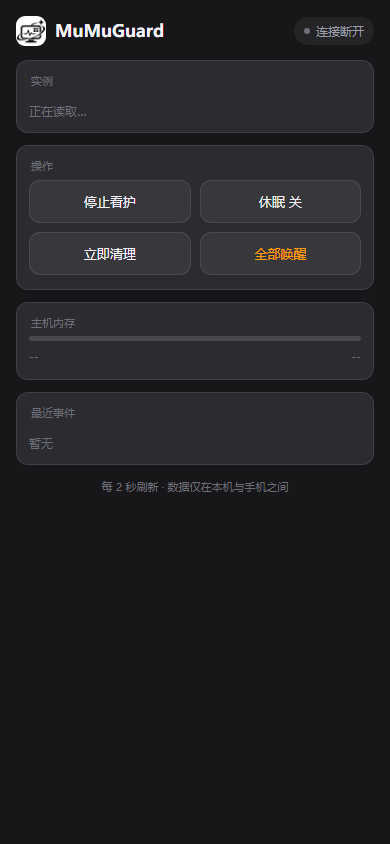
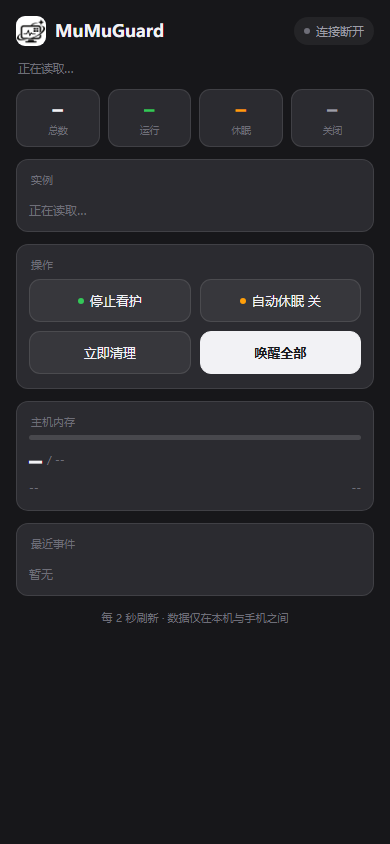
手机页对齐设计稿：概览统计、右侧时间列、操作带状态点、事件中文化

diff --git a/docs/remote/index.html b/docs/remote/index.html
@@ -52,6 +52,22 @@
   .toast.show{opacity:1}
   footer{text-align:center;color:var(--dim);font-size:11px;margin-top:14px}
   .err{color:var(--red);font-size:12px;padding:6px 0}
+  .sub{padding:0 2px 12px;font-size:11.5px;color:var(--dim)}
+  .stats{display:grid;grid-template-columns:repeat(4,1fr);gap:8px;margin-bottom:12px}
+  .stat{background:var(--card);border:1px solid var(--line);border-radius:11px;padding:9px 6px;text-align:center}
+  .stat b{display:block;font-size:19px;font-weight:600;line-height:1.1}
+  .stat span{display:block;font-size:9.5px;color:var(--dim);margin-top:3px}
+  .c-run{color:var(--green)}.c-sleep{color:var(--amber)}.c-off{color:var(--sub)}
+  .rt{text-align:right;min-width:46px}
+  .rt b{display:block;font-size:13px;font-weight:500}
+  .rt span{display:block;font-size:9.5px;color:var(--dim);margin-top:1px}
+  button{display:flex;align-items:center;justify-content:center;gap:6px}
+  button .bdot{width:6px;height:6px;border-radius:50%;background:var(--green);flex:0 0 6px}
+  button .bdot.orange{background:var(--amber)}
+  button.primary{background:#F2F2F5;color:#17171A;border-color:#F2F2F5;font-weight:600}
+  .memrow{display:flex;align-items:flex-end;padding:8px 0 0}
+  .memrow b{font-size:24px;font-weight:600;line-height:1}
+  .memrow em{font-style:normal;font-size:11px;color:var(--dim);margin:0 0 3px 5px}
 </style>
 </head>
 <body>
@@ -60,18 +76,16 @@
   <div class="pill"><span class="dot" id="dot"></span><span id="connText">未连接</span></div>
 </header>
 
-<div class="card">
-  <div class="title">开关状态</div>
-  <div class="row">
-    <div><div class="name">看护</div><div class="meta" id="guardMeta">等待数据…</div></div>
-    <div class="sw" id="guardSw"><i></i></div>
-  </div>
-  <div class="row">
-    <div><div class="name">升级休眠</div><div class="meta" id="sleepMeta">等待数据…</div></div>
-    <div class="sw" id="sleepSw"><i></i></div>
-  </div>
+<div class="sub" id="subLine">正在读取…</div>
+
+<div class="stats">
+  <div class="stat"><b id="statTotal">–</b><span>总数</span></div>
+  <div class="stat"><b id="statRun" class="c-run">–</b><span>运行</span></div>
+  <div class="stat"><b id="statSleep" class="c-sleep">–</b><span>休眠</span></div>
+  <div class="stat"><b id="statOff" class="c-off">–</b><span>关闭</span></div>
 </div>
-<div class="card" id="mainCard">
+
+<div class="card">
   <div class="title">实例</div>
   <div id="instances"><div class="empty">正在连接…</div></div>
 </div>
@@ -79,23 +93,21 @@
 <div class="card">
   <div class="title">操作</div>
   <div class="btns">
-    <button id="bGuard" disabled>看护</button>
-    <button id="bSleep" disabled>休眠</button>
-    <button id="bClean" disabled>立即清理</button>
-    <button id="bWakeAll" class="warn" disabled>全部唤醒</button>
+    <button id="bGuard" disabled><i class="bdot"></i><span>看护</span></button>
+    <button id="bSleep" disabled><i class="bdot orange"></i><span>自动休眠</span></button>
+    <button id="bClean" disabled>清理内存</button>
+    <button id="bWakeAll" class="primary" disabled>唤醒全部</button>
   </div>
 </div>
 
 <div class="card">
-  <div class="title">主机内存</div>
+  <div class="title">主机</div>
+  <div class="memrow"><b id="memBig">–</b><em id="memTotal">/ --</em></div>
   <div class="bar" id="membar"><i id="memfill" style="width:0%"></i></div>
-  <div class="kv"><span id="memUsed">--</span><span id="memTotal">--</span></div>
+  <div class="kv"><span id="memUsed">--</span><span id="memAvail">--</span></div>
 </div>
 
 <div class="card"><div class="title">最近事件</div><div id="events"><div class="empty">暂无</div></div></div>
-
-<footer>通过公共中转连接 · 每 3 秒同步</footer>
-<div class="toast" id="toast"></div>
 
 <script>
 // ---------------- MQTT 3.1.1 over WebSocket（最小实现） ----------------
@@ -237,36 +249,57 @@ function markBad(){
   document.getElementById('instances').innerHTML = '<div class="err">数据校验失败：这条状态不是你的电脑发出的，已忽略</div>';
 }
 
+const EVMAP = {CLEAN_CEF:'清理', SLEEP:'休眠', SLEEP_BG:'后台休眠', WAKE_MANUAL:'手动唤醒', WAKE_LATE:'补唤醒', AUTO_RECOVER:'自动恢复', AUTO_RESTART:'自动重启', RECOVER_OK:'恢复成功', RECOVER_FAIL:'恢复失败', LOW_MEM:'内存偏低', ALERT_MEM:'内存告警', ALERT_SCRIPT:'脚本告警', CEF_HIGH:'CEF 偏高', ROOT_FAIL:'权限失败', SLEEP_FAIL:'休眠失败'};
+function evText(s){ return String(s==null?'':s).replace(/^([A-Z][A-Z_]+)\s+/, function(x, c){ return (EVMAP[c] || c) + ' '; }); }
+
 function render(raw){
   let d = null;
   try { d = JSON.parse(raw); } catch(e){ return; }
   last = d;
 
-  // 开关状态 + 按钮联动
   const guardOn = !!d.guard, sleepOn = !!d.sleep;
-  document.getElementById('guardSw').className = 'sw' + (guardOn ? ' on' : '');
-  document.getElementById('guardMeta').textContent = guardOn ? '正在看护，掉线会自动重启' : '已暂停，不会自动处理';
-  document.getElementById('sleepSw').className = 'sw' + (sleepOn ? ' on' : '');
-  document.getElementById('sleepMeta').textContent = sleepOn ? '升级等待时会休眠模拟器' : '不启用休眠，一直挂着';
   const bG = document.getElementById('bGuard'), bS = document.getElementById('bSleep');
-  bG.textContent = guardOn ? '看护 · 开' : '看护 · 关';
   bG.className = guardOn ? 'on' : '';
-  bS.textContent = sleepOn ? '休眠 · 开' : '休眠 · 关';
+  bG.innerHTML = '<i class="bdot"></i><span>' + (guardOn ? '看护中' : '看护已停') + '</span>';
   bS.className = sleepOn ? 'on' : '';
+  bS.innerHTML = '<i class="bdot orange"></i><span>自动休眠 ' + (sleepOn ? '开' : '关') + '</span>';
+
+  const list = d.instances || [];
+  const nRun = list.filter(x => x.state === 'run').length;
+  const nSleep = list.filter(x => x.state === 'sleep').length;
+  const nOff = Math.max(0, list.length - nRun - nSleep);
+
+  document.getElementById('subLine').textContent = list.length + ' 个实例 · ' + nRun + ' 个运行 · ' + nSleep + ' 个休眠';
+  document.getElementById('statTotal').textContent = list.length;
+  document.getElementById('statRun').textContent = nRun;
+  document.getElementById('statSleep').textContent = nSleep;
+  document.getElementById('statOff').textContent = nOff;
+
   const ts = d.ts ? new Date(d.ts * 1000) : null;
   if (ts) document.getElementById('connText').textContent = '已连接 · ' + ts.toLocaleTimeString('zh-CN', {hour12:false});
 
   const box = document.getElementById('instances');
-  if (!d.instances || !d.instances.length){
+  if (!list.length){
     box.innerHTML = '<div class="empty">没有检测到实例</div>';
   } else {
-    box.innerHTML = d.instances.map(it => {
-      let tag = '离线', cls = 'off', meta = '实例 ' + esc(it.i);
-      if (it.state === 'run'){ tag = '运行中'; cls = 'run'; if (it.extra) meta = esc(it.extra); }
-      else if (it.state === 'sleep'){ tag = it.wake ? ('休眠到 ' + it.wake) : '休眠中'; if (it.extra) meta = esc(it.extra); }
-      else if (it.state === 'unknown'){ tag = '未知'; }
-      if (it.judge && it.judge !== '正常') meta += ' · ' + esc(it.judge);
+    box.innerHTML = list.map(it => {
+      let tag = '关闭', cls = 'off', rt = '—', rs = '无任务', meta = '';
+      if (it.state === 'run'){
+        tag = '运行中'; cls = 'run';
+        const m = String(it.extra || '').match(/剩\s*(.+)$/);
+        if (m) { rt = m[1]; rs = '剩余'; }
+        meta = it.judge && it.judge !== '正常' ? esc(it.judge) : '脚本运行中';
+      } else if (it.state === 'sleep'){
+        tag = '休眠'; cls = 'sleep';
+        rt = it.wake || '—'; rs = '唤醒';
+        meta = it.extra ? esc(it.extra) : '内存已释放';
+      } else if (it.state === 'unknown'){
+        tag = '未知'; cls = 'off'; rs = '无数据'; meta = '等待读取';
+      } else {
+        meta = '已关机';
+      }
       return '<div class="row"><div class="ico"></div><div class="who"><div class="name">' + esc(it.name) + '</div><div class="meta">' + meta + '</div></div>' +
+             '<div class="rt"><b>' + esc(rt) + '</b><span>' + rs + '</span></div>' +
              '<div class="tag ' + cls + '">' + esc(tag) + '</div></div>';
     }).join('');
   }
@@ -275,15 +308,18 @@ function render(raw){
   const pct = total ? Math.min(100, Math.round(used / total * 100)) : 0;
   document.getElementById('memfill').style.width = pct + '%';
   document.getElementById('membar').className = 'bar' + (pct >= 85 ? ' hi' : '');
+  document.getElementById('memBig').textContent = (used/1024).toFixed(1);
+  document.getElementById('memTotal').textContent = '/ ' + (total/1024).toFixed(1) + ' GB';
   document.getElementById('memUsed').textContent = '已用 ' + (used/1024).toFixed(1) + ' GB';
-  document.getElementById('memTotal').textContent = '共 ' + (total/1024).toFixed(1) + ' GB';
+  const av = document.getElementById('memAvail');
+  if (av) av.textContent = '可用 ' + ((total - used)/1024).toFixed(1) + ' GB';
 
   const ev = document.getElementById('events');
   if (!d.events || !d.events.length){
     ev.innerHTML = '<div class="empty">今天还没有事件</div>';
   } else {
     ev.innerHTML = d.events.map(e => {
-      let cls = 'ev'; const m = String(e.m || '');
+      let cls = 'ev'; const m = evText(e.m);
       if (/失败|异常|掉线|未运行|错误/.test(m)) cls += ' err';
       else if (/告警|偏高|接近|不足/.test(m)) cls += ' warn';
       return '<div class="' + cls + '"><b>' + esc(e.t) + '</b>' + esc(m) + '</div>';
